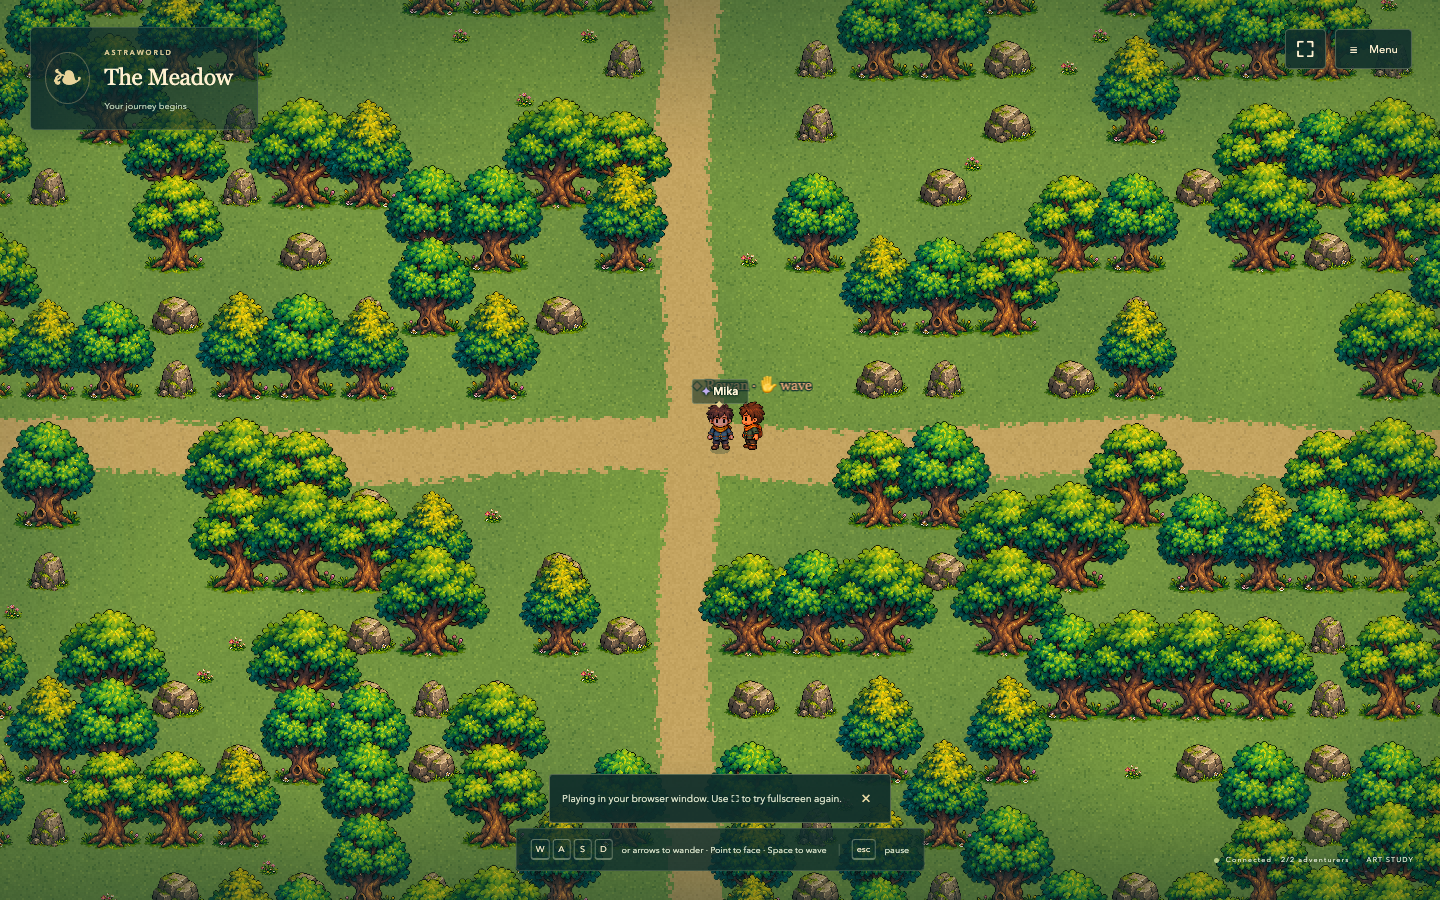
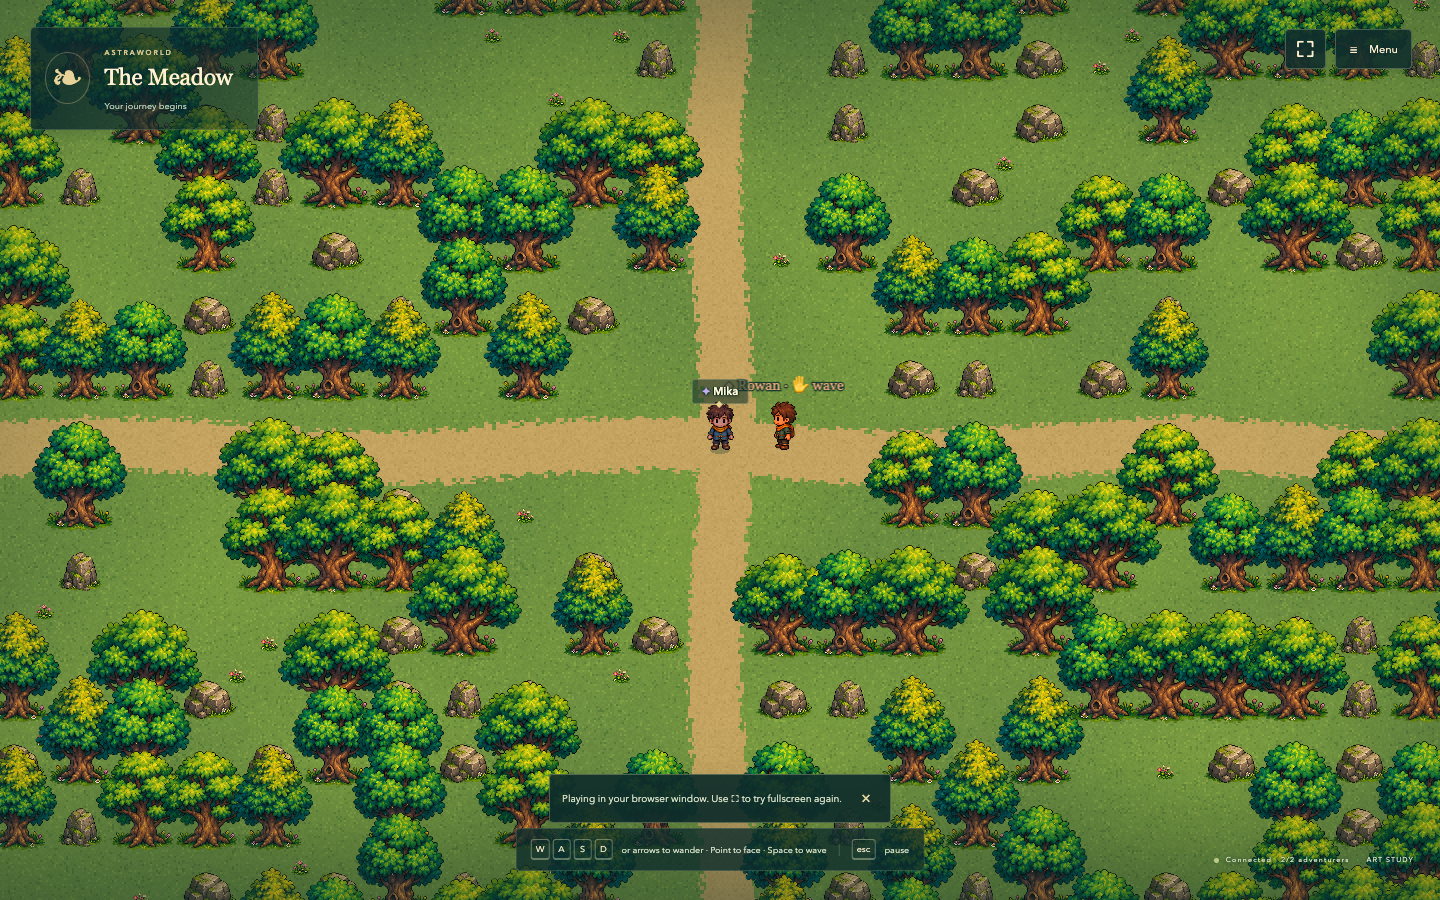
Keep peer animation active and record Vercel handoff verification

diff --git a/app/renderer.ts b/app/renderer.ts
@@ -589,7 +589,7 @@ export function mountMeadow(
           ticks++;
         }
       }
-      if (!paused) walkTime += dt;
+      if (!paused || network) walkTime += dt;
       elapsedFrames += dt;
       if (
         debugEnabled &&

diff --git a/docs/milestones/M1_RESPONSIVENESS.md b/docs/milestones/M1_RESPONSIVENESS.md
@@ -31,6 +31,8 @@ The local 26-second accelerated renewal observation passed with two generations 
 
 Runtime commit `dc7ec84` deployed successfully through Git to the existing Vercel project. Two independent authenticated hosted browser contexts passed the focused gameplay checks at normal latency and **300 ms added application RTT**, including stationary facing, wave retransmission, movement convergence, reconnect and the five-second application outage. [Hosted normal-network evidence](evidence/m1-v2-hosted-0.json), [added-delay evidence](evidence/m1-v2-hosted-150.json). The v2 health route returned ready in `iad1`, with a sampled Redis round trip of 0.78 ms (not a latency distribution).
 
-The 260-second hosted renewal / cross-deployment observation is still running; its outcome is not yet claimed. This documentation deployment deliberately leaves its original sessions open so their scheduled renewal reaches the next deployment. A sub-50 ms p95 input-to-visible benchmark, a new ten-minute soak, device/network diversity, true TCP packet loss and multi-region load remain unverified. The 60 ms browser probe demonstrates prompt prediction; it is not a p95 latency benchmark. Short owner/Redis interruptions can still cause corrections or reconnect feedback. The fixed buffer and half-second server catch-up allowance are provisional and should be tuned with measurements.
+**Hosted renewal and actual deployment handoff PASS:** two independent authenticated Chromium contexts were observed for 260 seconds, with a Git-triggered deployment during the session. Both moved from runtime `dc7ec84` to deployment `419c3c7`, generation 1 → 2 and owner epoch 1 → 2. Both retained identity and peers, and wave delivery passed after renewal. Measured server cadence was **59.95 Hz**, maximum snapshot gaps **320.4 ms / 279.4 ms**, and p95 gaps **179.7 ms / 179.6 ms**. There were no browser errors. These are observed application snapshot gaps, not input latency or worst-case guarantees. [Hosted lifecycle artifact](evidence/m1-v2-hosted-lifecycle.json).
+
+The Vercel production error-log query for the preceding 15 minutes returned no matching error logs. Deployment protection remains enabled. A final renderer adjustment keeps peer walking animation running while the local player is paused; production build and both focused local browser scenarios passed again. No server/protocol behavior changed after the hosted handoff test. A sub-50 ms p95 input-to-visible benchmark, a new ten-minute soak, device/network diversity, true TCP packet loss and multi-region load remain unverified. The 60 ms browser probe demonstrates prompt prediction; it is not a p95 latency benchmark. Short owner/Redis interruptions can still cause corrections or reconnect feedback. The fixed buffer and half-second server catch-up allowance are provisional and should be tuned with measurements.
 
 Next eligible task remains M1's true TCP fault and broader game-feel validation. Do not start M2.

diff --git a/README.md b/README.md
@@ -2,7 +2,7 @@
 
 A top-down 2D cooperative browser adventure where befriending creatures gives players new ways to explore a persistent wilderness.
 
-**Status: M1 multiplayer is deployed; hosted lifecycle verification passed. True TCP packet-loss validation remains before M2.** Two private browser sessions can explore the same Meadow with server-owned movement, prediction and Redis-backed recovery. The concept-inspired art, username entry and fullscreen experience remain. The existing Vercel project and Redis service now host the same multiplayer runner. No new cloud service was provisioned. See [M1 local results](docs/milestones/M1_LOCAL_RESULTS.md); M2 has not started.
+**Status: M1 multiplayer is deployed; hosted lifecycle verification passed. True TCP packet-loss validation remains before M2.** Two private browser sessions can explore the same Meadow with immediate local prediction, synchronized facing/walking/waves, server-owned movement and Redis-backed recovery. The concept-inspired art, username entry and fullscreen experience remain. The existing Vercel project and Redis service now host the same multiplayer runner. No new cloud service was provisioned. See [M1 local results](docs/milestones/M1_LOCAL_RESULTS.md); M2 has not started.
 
 ## Start here
 

diff --git a/docs/milestones/M1_DEPLOYMENT.md b/docs/milestones/M1_DEPLOYMENT.md
@@ -43,3 +43,5 @@ Remaining check: real TCP/IP packet loss and retransmission/head-of-line bufferi
 ## Protocol 2 responsiveness follow-up
 
 Runtime `dc7ec84` deployed on the existing Vercel project and Redis service. The new two-browser hosted movement/facing/wave checks passed, including added 300 ms application RTT, a dropped action message and five-second application outage. See [the current contract and verification status](M1_RESPONSIVENESS.md). The earlier protocol-1 10-second gap measurements in this document remain historical evidence; they must not be presented as protocol-2 results.
+
+Protocol-2 hosted renewal / real deployment overlap also **passed**: 260 seconds, two independent authenticated contexts, owners spanning `dc7ec84` and `419c3c7`, preserved identities, approximately 59.95 Hz simulation and a maximum observed snapshot gap of 320.4 ms. See [raw lifecycle measurements](evidence/m1-v2-hosted-lifecycle.json). These measurements do not replace true TCP-loss testing or establish a worst-case latency guarantee.
